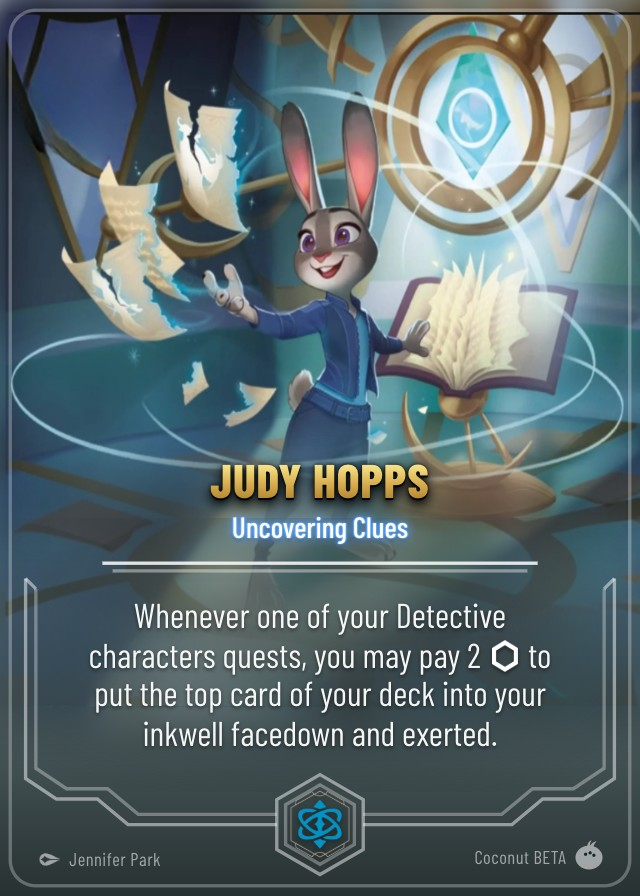
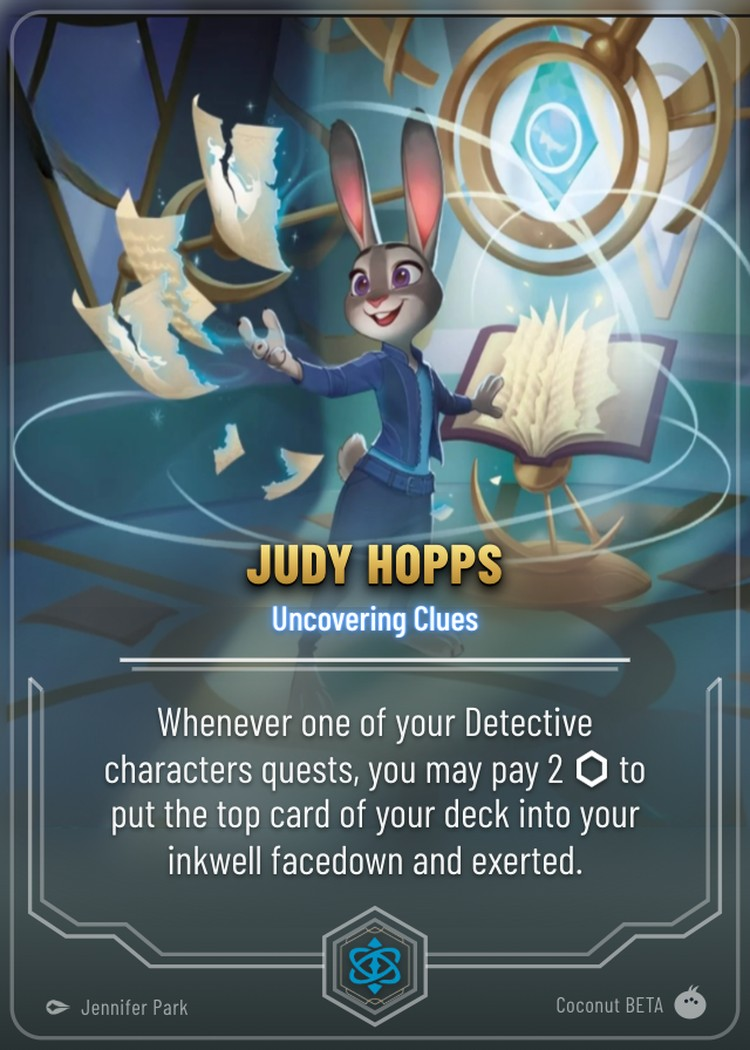
Upscale Judy Hopps and Merida to 750x1050
Neither is on the print sheet yet, so their 640x896 PNGs are Lanczos-upscaled
to match the other 27 faces, the same way the sheet's own 750px faces appear
to have been produced.

Claude-Session: https://claude.ai/code/session_01TyWWYXRRFrMp2PGpokVcro

Changed region(s): [[0.7188, 0.75, 0.75, 0.7812], [0.6875, 0.7188, 0.7188, 0.75], [0.4375, 0.8125, 0.4688, 0.8438]]

diff --git a/.claude/skills/add-coconut-card/SKILL.md b/.claude/skills/add-coconut-card/SKILL.md
@@ -113,9 +113,10 @@ bg.paste(im, (0, 0), im)
 bg.save(f'public/coconut-cards/{id}.jpg', 'JPEG', quality=90, optimize=True, progressive=True)
 ```
 
-750x1050 (300 DPI at 2.5"x3.5") from the print sheet; 640x896 (~256 DPI)
-from the individual PNGs until a card reaches the sheet. Never upscale to hit
-a number. If the art is
+Every face is 750x1050 (300 DPI at 2.5"x3.5"). Take it from the print sheet
+when the card is there; otherwise Lanczos-upscale the 640x896 PNG to 750x1050
+(`bg.resize((750, 1050), Image.LANCZOS)` before saving) — that matches how the
+sheet's own faces were produced. Swap in the sheet's copy once it ships. If the art is
 already JPEG at the right size, copy it byte-for-byte rather than re-encoding.
 
 Reject a face stamped **"FOR BETA TEST ONLY"** or obviously greyed out — that's
